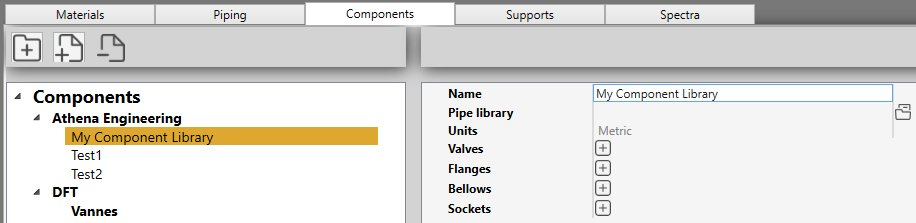
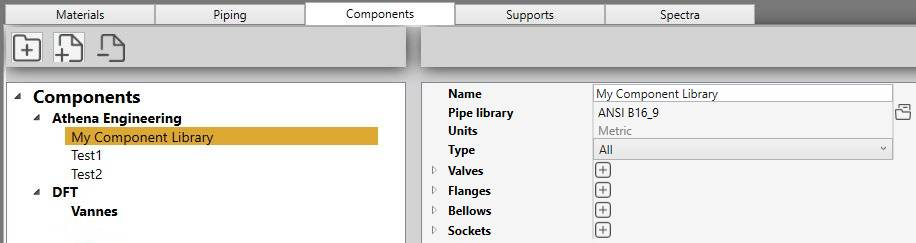
Corrections

diff --git a/Settings/Databases/Components.md b/Settings/Databases/Components.md
@@ -39,6 +39,13 @@ It can correspond to a provider of several component (Ex : flanges, bellows and 
 
 A library is referenced to an existing [Piping library](https://documentation.metapiping.com/Settings/Databases/Piping.html) for the size definitions. Units are then imposed.
 
+You can choose the type :
+* All
+* Valves
+* Flanges
+* Bellows
+* Sockets
+
 ### 2.1 Valves
 
 Click the **+** button to add valves for a specific pipe size. Select a size (Ex : 4") :
@@ -51,7 +58,7 @@ Click the **+** button to add a new valve of a certain type :
 
 - Simple
 - With middle point
-- With excentricity
+- With eccentricity
 
 | Property | Unit Metric | Unit USA | 
 | -------- | ---- | ---- | 

diff --git a/Settings/General.md b/Settings/General.md
@@ -56,8 +56,14 @@ You can also specify:
 
 You can specify the path of your favorite text editor for text report editing.
 
-If blank, MetaPiping uses Windows NotePad.
+If blank, MetaPiping uses **Windows NotePad**.
 
-## 7. Structure
+## 7. Review
+
+You can define the size in pixel of the point for the **End conditions** screen (default = 10 pixels) :
+
+![Image](../Images/Review15.jpg)
+
+## 8. Structure
 
 You can specify the maximum distance (in meter) between a pipe node and a structure node during the **Node link** operation. MetaStructure will search structure nodes that are distant less than this value from the selected piping node.

diff --git a/Loads/Piping/StressCombinationCases.md b/Loads/Piping/StressCombinationCases.md
@@ -63,6 +63,10 @@ The equations are code-dependent.
 
 If this field is not blank and different from 0, then the allowable stress for this case will be f * Sh.
 
+<ins>Duration</ins> :
+
+In hours.
+
 ## 2. Combined cases
 
 Enter the **number** of the constituent cases and the corresponding **factor**.

diff --git a/Design/Elements/Flange.md b/Design/Elements/Flange.md
@@ -51,7 +51,7 @@ Click on the **Database** button, select a **Library** and a **Flange**. The **O
 
 ![Image](../../Images/Flange5.jpg)
 
-The **Nominal pressure** and the **Type** is just informative.
+The **Rating** and the **Type** is just informative.
 
 The tables will be filled automatically :
 
